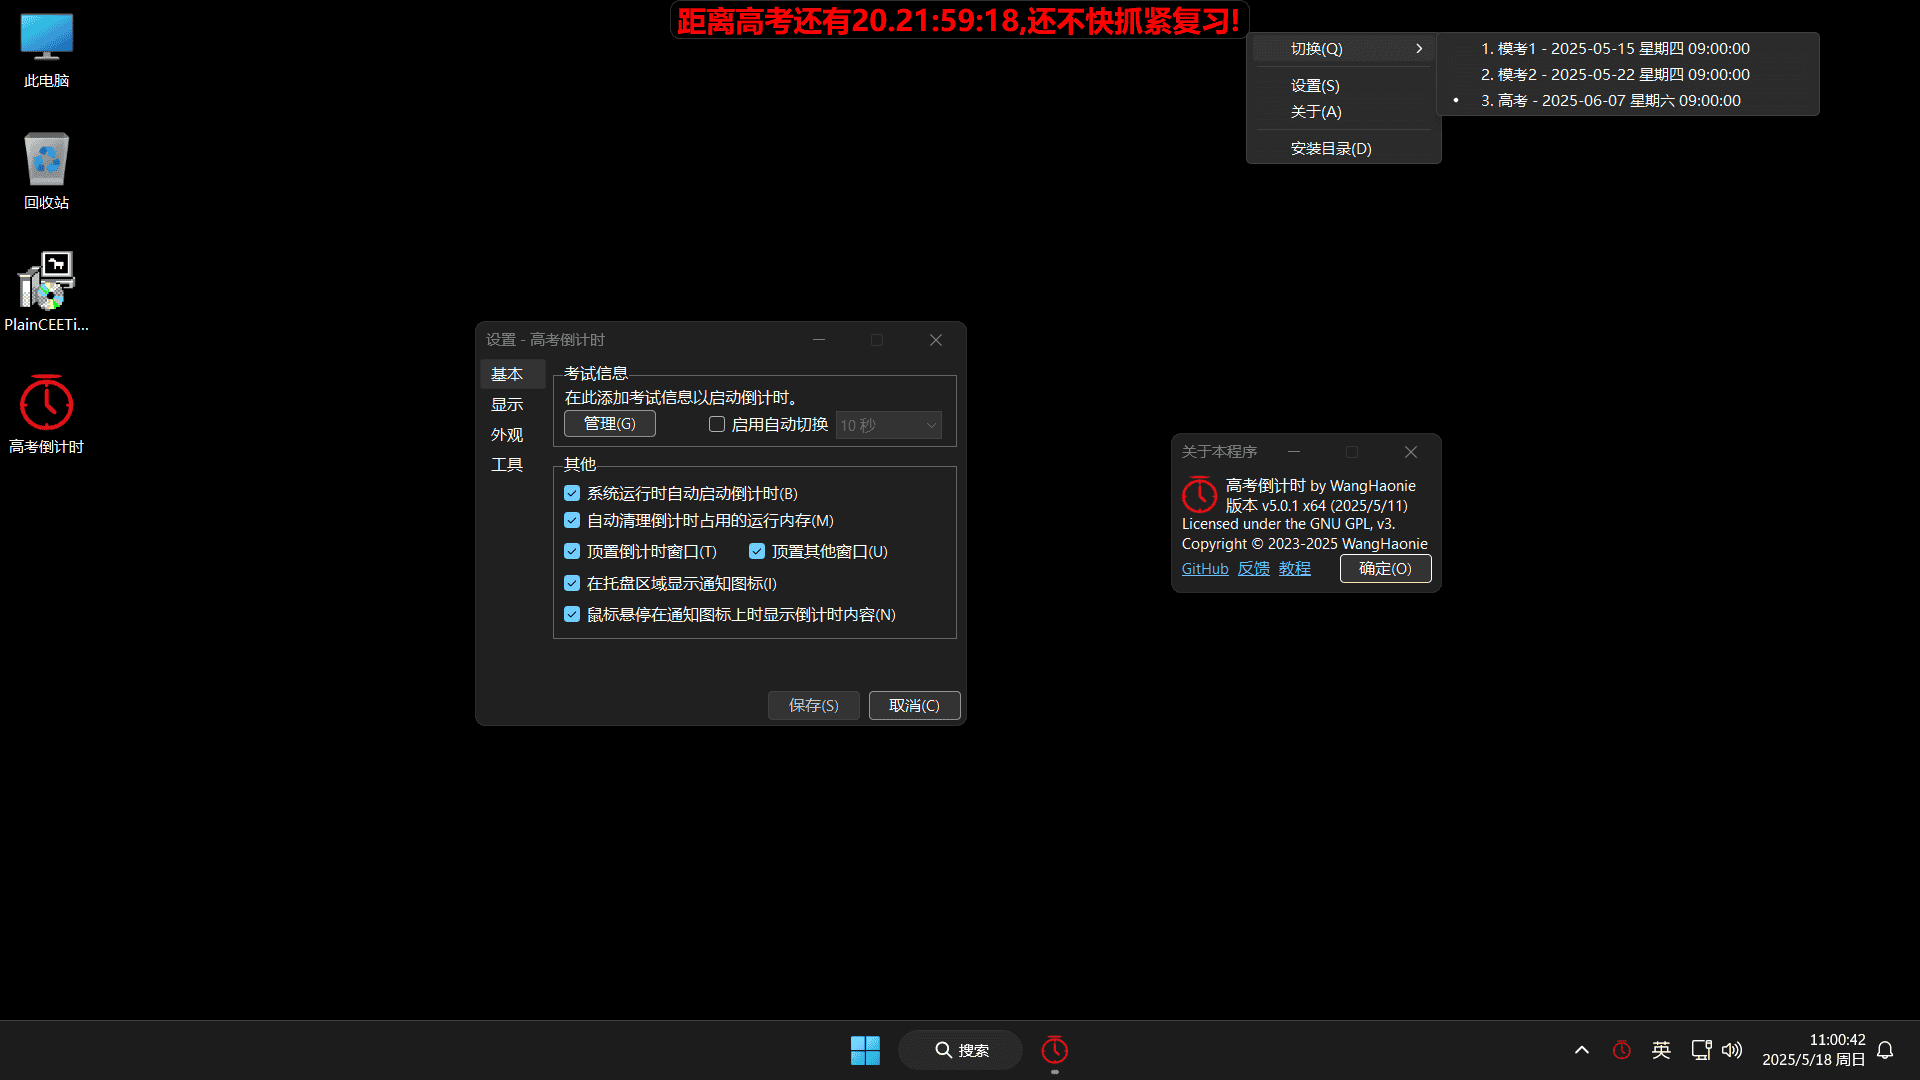
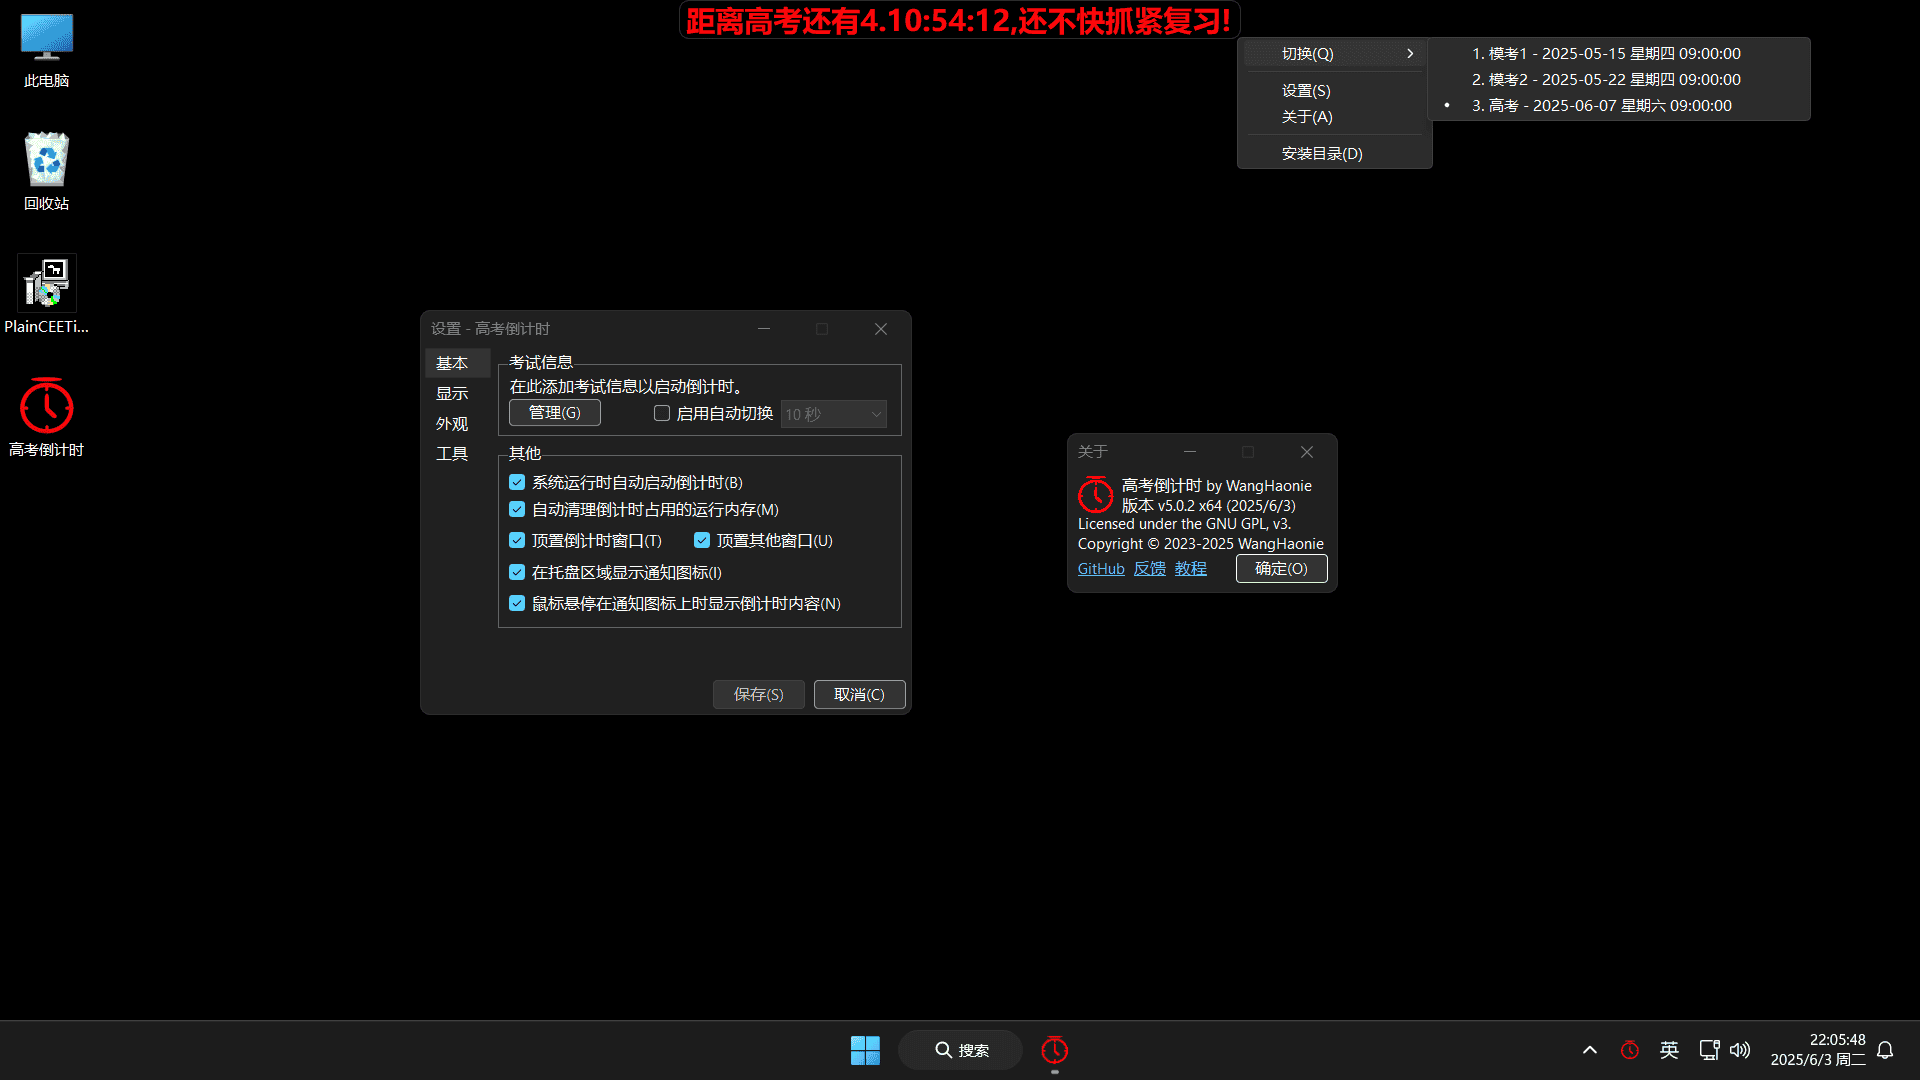
📢 发布了 v5.0.2

diff --git a/PlainCEETimer/Modules/App.cs b/PlainCEETimer/Modules/App.cs
@@ -41,7 +41,7 @@ namespace PlainCEETimer.Modules
         public const string UxThemeDll = "uxtheme.dll";
         public const string Shell32Dll = "shell32.dll";
         public const string Gdi32Dll = "gdi32.dll";
-        public const string AppVersion = "5.0.1";
+        public const string AppVersion = "5.0.2";
         public const string AppBuildDate = "2025/6/3";
         public const string CopyrightInfo = "Copyright © 2023-2025 WangHaonie";
         public const string DateTimeFormat = "yyyyMMddHHmmss";
